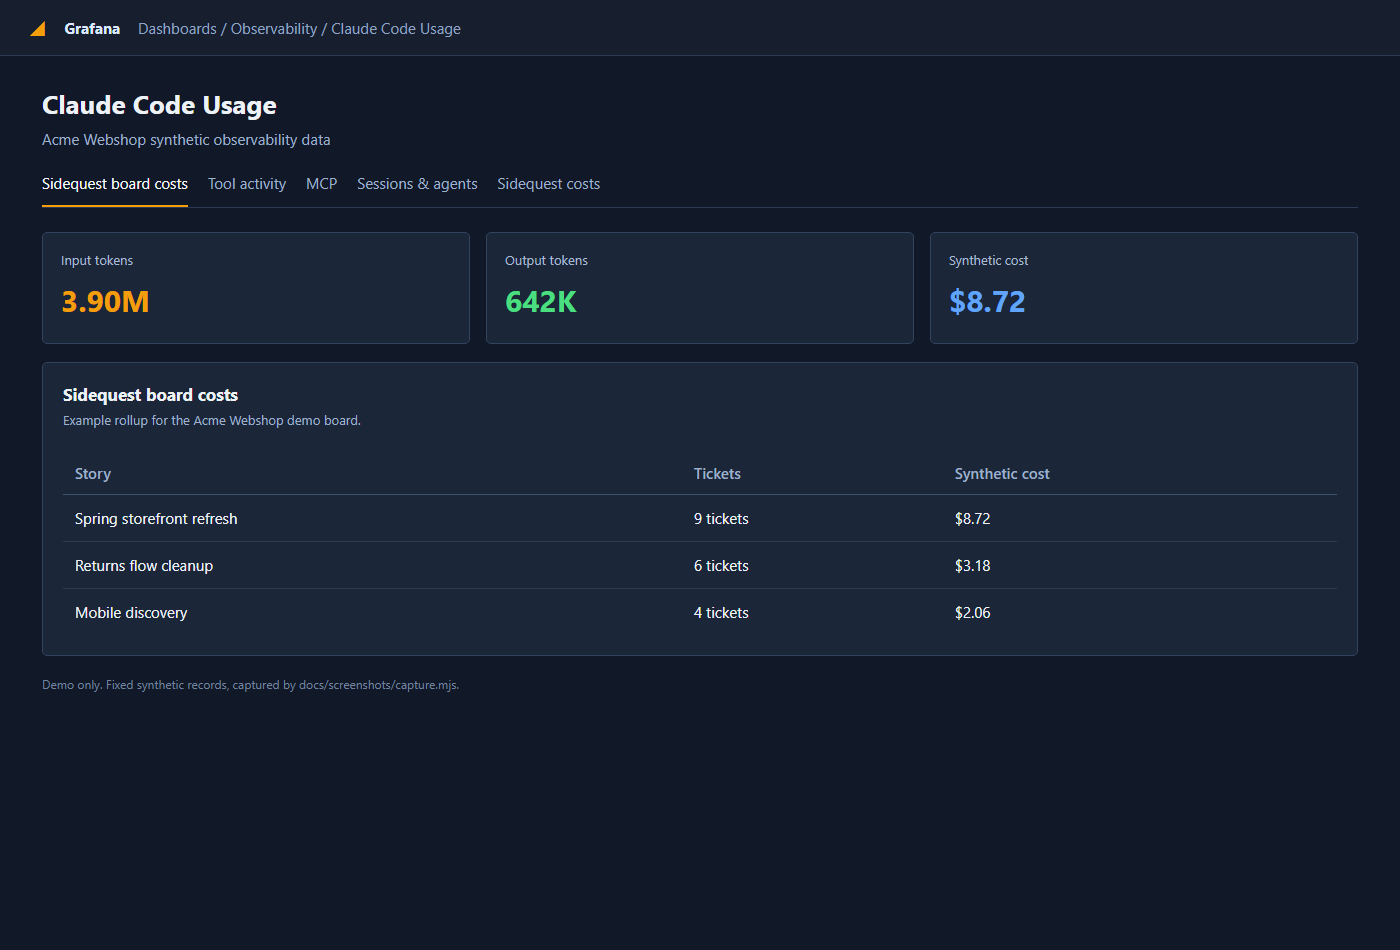
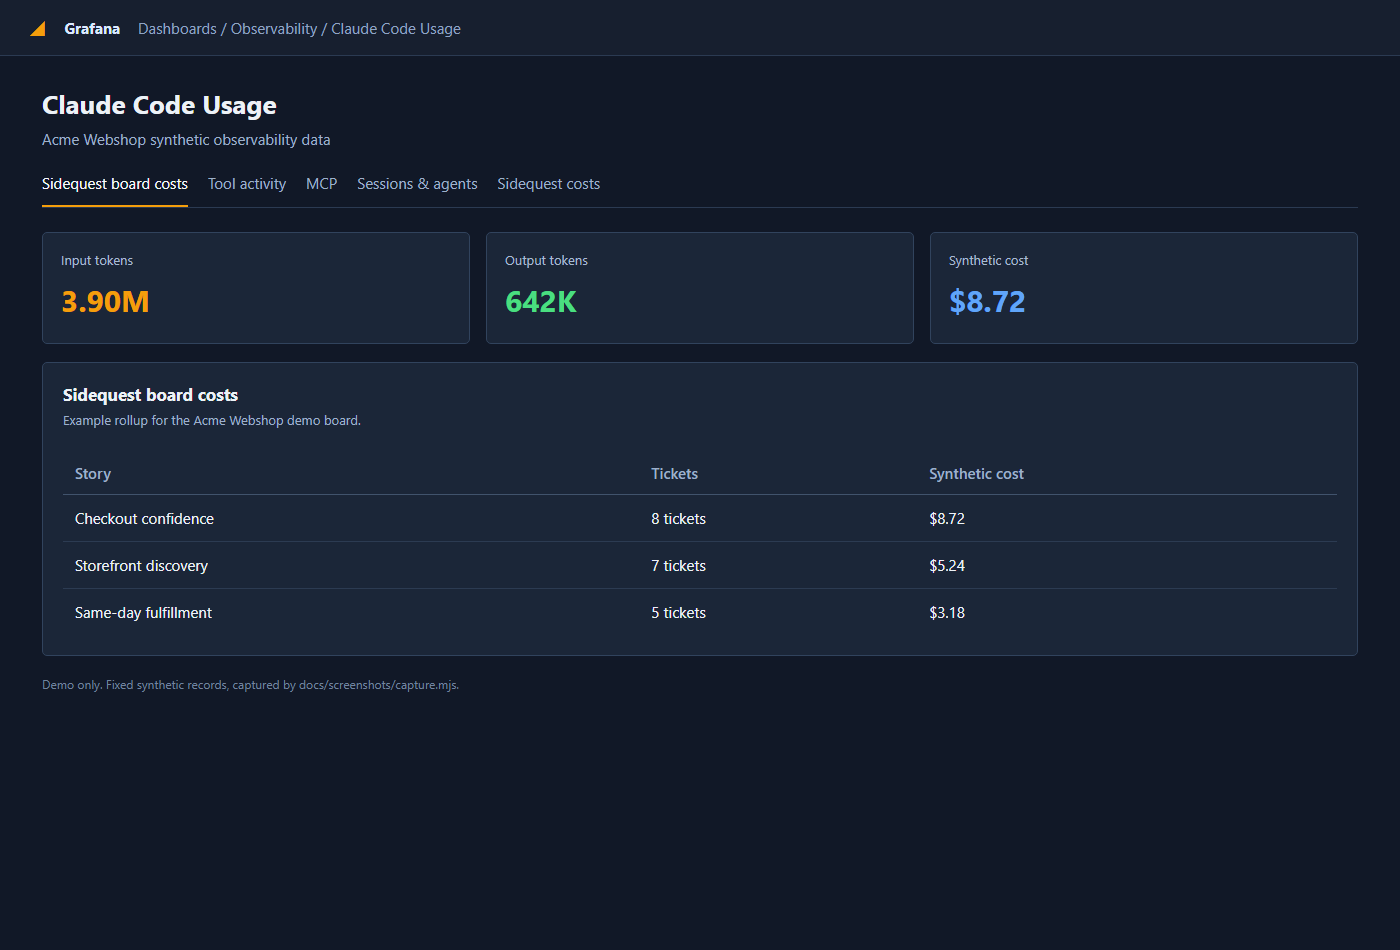
docs(sidequest): add populated dashboard screenshots

diff --git a/docs/src/content/docs/getting-started/sidequest.md b/docs/src/content/docs/getting-started/sidequest.md
@@ -40,17 +40,47 @@ The board keeps the work visible while Claude and its executors handle the ticke
 
 ## Use the dashboard
 
-The dashboard shows every project you have registered in Sidequest. Use it to switch boards, scan todo, doing, and done work, search tickets, filter the view, and open a ticket's full details.
+The project rail keeps every registered board in one place, with ticket counts and status progress beside each project. The combined view is useful when you want to scan ownership, priorities, labels, stories, and routes across the whole queue.
 
-![Sidequest dashboard showing a synthetic board with todo, doing, and done columns](../../../assets/screenshots/sidequest-kanban.png)
+![Sidequest dashboard with three synthetic projects and populated todo, doing, and done columns](../../../assets/screenshots/sidequest-kanban.png)
 
-*Synthetic Acme Webshop demo data showing the board view and ticket status columns.*
+*Synthetic demo data showing three active project boards and 21 tickets.*
 
-Open a ticket to read its details, comments, links, reminders, story, and current ownership. You can edit tickets and leave a note from the detail view.
+Select a project in the rail when you need its focused board. The columns keep that project's open and completed work visible without losing the rest of the rail.
 
-![Sidequest ticket detail view showing synthetic details, status, story, links, reminder, and comment controls](../../../assets/screenshots/sidequest-ticket-detail.png)
+![Acme Fulfillment synthetic board selected in the Sidequest project rail](../../../assets/screenshots/sidequest-second-project.png)
 
-*Synthetic demo ticket detail view. The names, titles, timestamps, and comments are fixtures created for documentation.*
+*Synthetic demo data showing the Acme Fulfillment board selected from a three-project rail.*
+
+The toolbar searches refs, titles, and labels, then combines that query with priority, story, assignee, and sort controls. Active filters stay visible, so you can tell why a card is in the result.
+
+![Sidequest board with mobile typed into search and the normal priority filter active](../../../assets/screenshots/sidequest-filtered-board.png)
+
+*Synthetic demo data showing a mobile search narrowed to normal-priority tickets.*
+
+The inbox collects comments, reminders, ticket creation, and status activity across projects. Its tabs separate work that needs you from the wider activity stream.
+
+![Sidequest notification inbox open over a populated synthetic board](../../../assets/screenshots/sidequest-notifications.png)
+
+*Synthetic demo data showing several unread comment notifications from different tickets.*
+
+Open a ticket to edit its fields and read the working context in one place. The detail view keeps a scheduled reminder, dependency links, and the full comment thread beside the ticket fields.
+
+![Sidequest ticket detail with a populated reminder, dependency link, story, and comment thread](../../../assets/screenshots/sidequest-ticket-detail.png)
+
+*Synthetic demo data showing the Build cart summary ticket and its team discussion.*
+
+Completed work can move into the archive without disappearing. The archive view keeps the source board, priority, age, and restore action with each ticket.
+
+![Sidequest archive containing three synthetic tickets from two projects](../../../assets/screenshots/sidequest-archive.png)
+
+*Synthetic demo data showing archived storefront and fulfillment work.*
+
+Settings covers routing profiles, model fallback, theme, notification preferences, and the guided tour. Open it when you need to change how the board behaves rather than the work on a ticket.
+
+![Sidequest settings dialog showing routing, appearance, tour, and notification controls](../../../assets/screenshots/sidequest-settings.png)
+
+*Synthetic demo data behind the Sidequest settings dialog.*
 
 ## Daily use
 
